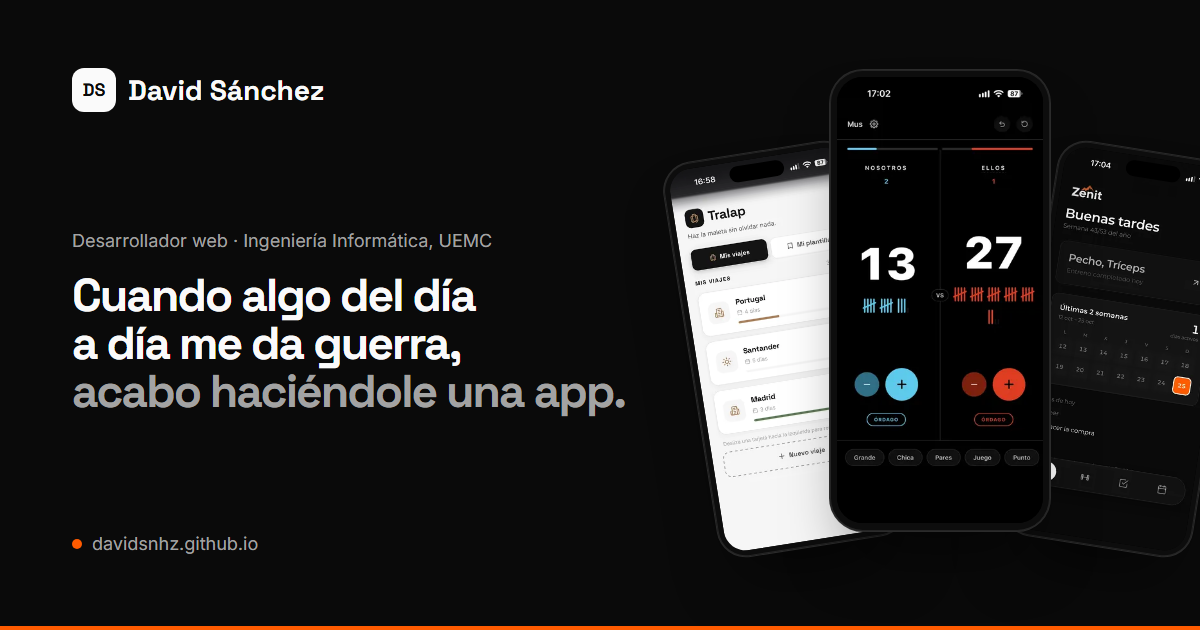
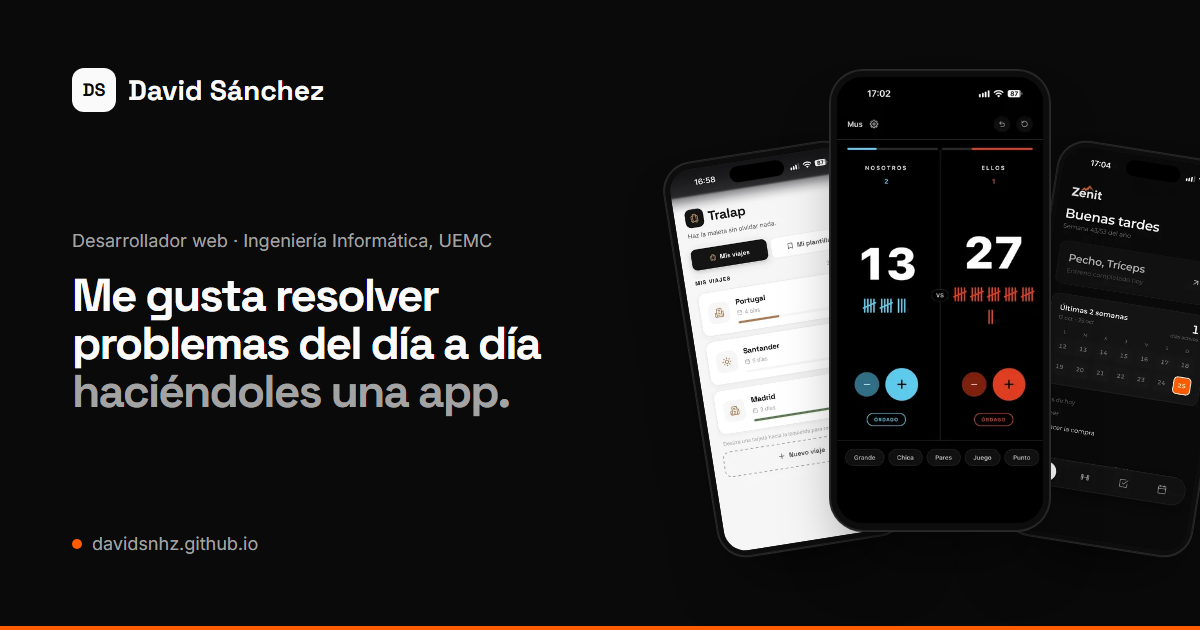
content: correo profesional en contacto y titular reescrito
- Email de contacto: davidsnhzv@gmail.com
- ES: "Me gusta resolver problemas del día a día haciéndoles una app."
- EN: "I like solving everyday problems by building an app for them."
- Regenera las imágenes Open Graph

Changed region(s): [[0.0617, 0.4222, 0.5242, 0.6635]]

diff --git a/src/i18n/ui.ts b/src/i18n/ui.ts
@@ -21,8 +21,8 @@ const es = {
   'id.contact': 'contacto',
 
   'hero.role': 'Desarrollador web · Ingeniería Informática, UEMC',
-  'hero.title.a': 'Cuando algo del día a día me da guerra,',
-  'hero.title.b': 'acabo haciéndole una app.',
+  'hero.title.a': 'Me gusta resolver problemas del día a día',
+  'hero.title.b': 'haciéndoles una app.',
   'hero.text':
     'Estudio 3º de Ingeniería Informática y me encanta todo lo que tiene que ver con la informática y la IA. Por ahora he hecho un marcador para jugar al mus, una app para hacer la maleta sin dejarte nada y otra para llevar el gimnasio al día.',
   'hero.cta.projects': 'Ver proyectos',
@@ -99,8 +99,8 @@ const en: Record<UiKey, string> = {
   'id.contact': 'contact',
 
   'hero.role': 'Web developer · Computer Engineering, UEMC',
-  'hero.title.a': 'When something in my day-to-day gets annoying,',
-  'hero.title.b': 'I end up building an app for it.',
+  'hero.title.a': 'I like solving everyday problems',
+  'hero.title.b': 'by building an app for them.',
   'hero.text':
     "I'm a third-year Computer Engineering student and I love anything to do with computing and AI. So far I've built a scorekeeper for playing mus (a Spanish card game), an app to pack your suitcase without forgetting anything and another one to keep my gym routine on track.",
   'hero.cta.projects': 'See projects',

diff --git a/src/config/site.ts b/src/config/site.ts
@@ -5,8 +5,8 @@ export const site = {
   url: 'https://davidsnhz.github.io',
   github: 'https://github.com/davidsnhz',
   sourceRepo: 'https://github.com/davidsnhz/davidsnhz.github.io',
-  // TODO: rellena tu email y tu perfil de LinkedIn
-  email: '',
+  // TODO: añade la URL de tu perfil de LinkedIn cuando lo tengas
+  email: 'davidsnhzv@gmail.com',
   linkedin: '',
   stack: ['JavaScript', 'TypeScript', 'React', 'Vite', 'Tailwind', 'Firebase', 'PWA', 'Git'],
 };

diff --git a/README.md b/README.md
@@ -85,4 +85,4 @@ En **Settings → Pages**, la opción *Source* tiene que estar en **GitHub Actio
 
 ## Pendiente
 
-- Rellenar `email` y `linkedin` en `src/config/site.ts`. Mientras estén vacíos, no aparecen en la sección de contacto.
+- Añadir la URL de LinkedIn en `src/config/site.ts`. Mientras esté vacía, no aparece en la sección de contacto.
